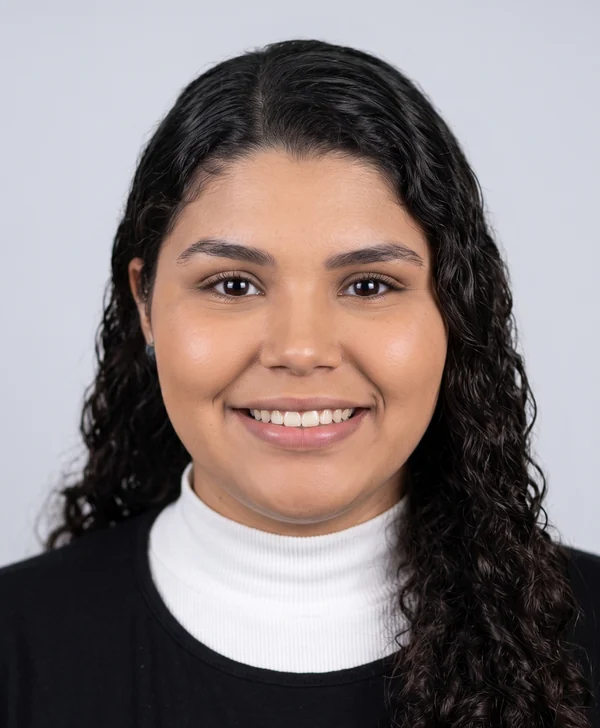
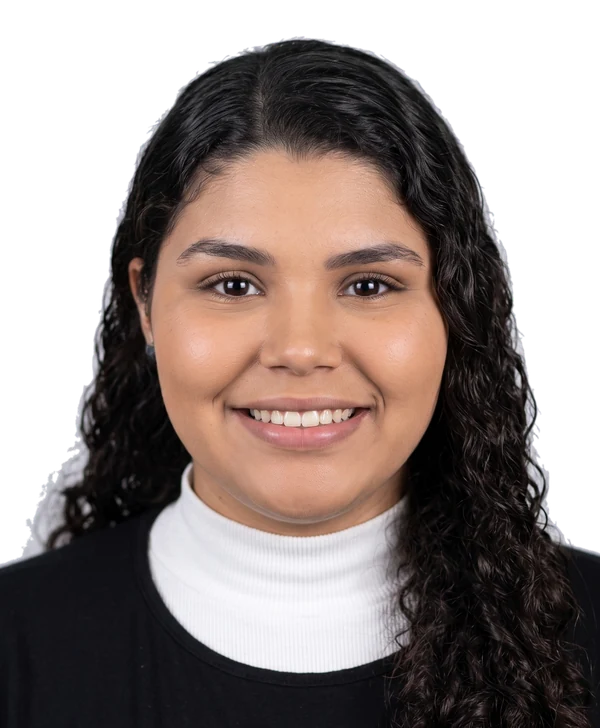
fix(rh): central de contato sobe para a linha do nome, no PC e no celular
Correção da minha correção anterior. Eu tinha compactado a central só abaixo de
sm — mas o painel é usado no PC, e era lá que ela ocupava uma faixa inteira com
metade dela vazia.

Pior: na primeira tentativa movi o bloco para a linha errada (a do "Baixar
currículo"), então ele continuou embaixo do nome. Agora ele é filho da linha do
avatar + nome de verdade, e fica à direita a partir de xl. Abaixo disso desce,
que é o certo num telefone.

E a moldura saiu no PC também: enquanto teve cartão, título e um parágrafo de
duas linhas, gastava 77px antes do primeiro botão. O título e a explicação
continuam no HTML para leitor de tela — para quem enxerga, "WhatsApp", "E-mail"
e "Ligar" já dizem o que fazem, e o texto só se lia uma vez na vida.

Medido, com a gaveta aberta na mesma ficha:

  1600px  cabeçalho 339px -> 217px, nome e WhatsApp no mesmo topo (16px)
  2560px  idem
   584px  empilhado, como deve ser num telefone
  nenhuma das três com overflow horizontal

Saíram junto o import `Send` e a constante `ROTULO_SECAO`, que ficaram órfãos.

diff --git a/src/routeTree.gen.ts b/src/routeTree.gen.ts
@@ -10,7 +10,6 @@
 
 import { Route as rootRouteImport } from './routes/__root'
 import { Route as IndexRouteImport } from './routes/index'
-import { Route as PreviaEquipeRouteImport } from './routes/previa-equipe'
 import { Route as RhRouteImport } from './routes/rh'
 import { Route as TrabalheConoscoRouteImport } from './routes/trabalhe-conosco'
 import { Route as CarreirasIndexRouteImport } from './routes/carreiras/index'
@@ -22,11 +21,6 @@ import { Route as ApiRhCurriculoIdRouteImport } from './routes/api/rh/curriculo/
 const IndexRoute = IndexRouteImport.update({
   id: '/',
   path: '/',
-  getParentRoute: () => rootRouteImport,
-} as any)
-const PreviaEquipeRoute = PreviaEquipeRouteImport.update({
-  id: '/previa-equipe',
-  path: '/previa-equipe',
   getParentRoute: () => rootRouteImport,
 } as any)
 const RhRoute = RhRouteImport.update({
@@ -67,7 +61,6 @@ const ApiRhCurriculoIdRoute = ApiRhCurriculoIdRouteImport.update({
 
 export interface FileRoutesByFullPath {
   '/': typeof IndexRoute
-  '/previa-equipe': typeof PreviaEquipeRoute
   '/rh': typeof RhRoute
   '/trabalhe-conosco': typeof TrabalheConoscoRoute
   '/carreiras/$slug': typeof CarreirasSlugRoute
@@ -78,7 +71,6 @@ export interface FileRoutesByFullPath {
 }
 export interface FileRoutesByTo {
   '/': typeof IndexRoute
-  '/previa-equipe': typeof PreviaEquipeRoute
   '/rh': typeof RhRoute
   '/trabalhe-conosco': typeof TrabalheConoscoRoute
   '/carreiras/$slug': typeof CarreirasSlugRoute
@@ -90,7 +82,6 @@ export interface FileRoutesByTo {
 export interface FileRoutesById {
   __root__: typeof rootRouteImport
   '/': typeof IndexRoute
-  '/previa-equipe': typeof PreviaEquipeRoute
   '/rh': typeof RhRoute
   '/trabalhe-conosco': typeof TrabalheConoscoRoute
   '/carreiras/$slug': typeof CarreirasSlugRoute
@@ -103,7 +94,6 @@ export interface FileRouteTypes {
   fileRoutesByFullPath: FileRoutesByFullPath
   fullPaths:
     | '/'
-    | '/previa-equipe'
     | '/rh'
     | '/trabalhe-conosco'
     | '/carreiras/$slug'
@@ -114,7 +104,6 @@ export interface FileRouteTypes {
   fileRoutesByTo: FileRoutesByTo
   to:
     | '/'
-    | '/previa-equipe'
     | '/rh'
     | '/trabalhe-conosco'
     | '/carreiras/$slug'
@@ -125,7 +114,6 @@ export interface FileRouteTypes {
   id:
     | '__root__'
     | '/'
-    | '/previa-equipe'
     | '/rh'
     | '/trabalhe-conosco'
     | '/carreiras/$slug'
@@ -137,7 +125,6 @@ export interface FileRouteTypes {
 }
 export interface RootRouteChildren {
   IndexRoute: typeof IndexRoute
-  PreviaEquipeRoute: typeof PreviaEquipeRoute
   RhRoute: typeof RhRoute
   TrabalheConoscoRoute: typeof TrabalheConoscoRoute
   CarreirasSlugRoute: typeof CarreirasSlugRoute
@@ -154,13 +141,6 @@ declare module '@tanstack/react-router' {
       path: '/'
       fullPath: '/'
       preLoaderRoute: typeof IndexRouteImport
-      parentRoute: typeof rootRouteImport
-    }
-    '/previa-equipe': {
-      id: '/previa-equipe'
-      path: '/previa-equipe'
-      fullPath: '/previa-equipe'
-      preLoaderRoute: typeof PreviaEquipeRouteImport
       parentRoute: typeof rootRouteImport
     }
     '/rh': {
@@ -217,7 +197,6 @@ declare module '@tanstack/react-router' {
 
 const rootRouteChildren: RootRouteChildren = {
   IndexRoute: IndexRoute,
-  PreviaEquipeRoute: PreviaEquipeRoute,
   RhRoute: RhRoute,
   TrabalheConoscoRoute: TrabalheConoscoRoute,
   CarreirasSlugRoute: CarreirasSlugRoute,

diff --git a/src/components/rh/CentralContato.tsx b/src/components/rh/CentralContato.tsx
@@ -42,7 +42,6 @@ import {
   Paperclip,
   PenLine,
   Phone,
-  Send,
   X,
 } from "lucide-react";
 import type { LucideIcon } from "lucide-react";
@@ -79,9 +78,6 @@ const BOTAO_PRIMARIO = `${BOTAO} bg-forest text-white ring-lime hover:bg-forest/
 const BOTAO_SECUNDARIO = `${BOTAO} bg-white/10 text-white ring-white/25 hover:bg-white/20`;
 /** Indisponível: continua legível (85% é o piso da regra), mas sem convite ao clique. */
 const BOTAO_MORTO = `${BOTAO} cursor-not-allowed bg-white/5 text-white/85 ring-white/15`;
-
-const ROTULO_SECAO =
-  "flex items-center gap-2 font-display text-[0.72rem] font-extrabold uppercase tracking-[0.14em] text-white";
 
 const AJUDA = "text-xs leading-relaxed text-white/85";
 
@@ -375,26 +371,26 @@ export function CentralContato(props: {
   /* --------------------------------------------------------------------- */
 
   return (
-    /* COMPACTA POR PADRÃO. Ela fica logo abaixo do nome, e antes ocupava um
-       cartão inteiro — título, um parágrafo de duas linhas e só então os
-       botões. Numa tela pequena isso empurrava a ficha inteira para fora da
-       dobra: a pessoa abria a candidata e via um bloco de instruções, não os
-       dados dela.
-       O título e a explicação continuam existindo para leitor de tela e voltam
-       à vista a partir de sm; o que some no celular é a moldura e o texto que
-       quem usa o painel já leu na primeira vez. */
-    <section aria-labelledby={`${uid}-titulo`} className="rounded-2xl sm:rh-vidro sm:p-5">
-      <h3 id={`${uid}-titulo`} className={`sr-only sm:not-sr-only sm:flex ${ROTULO_SECAO}`}>
-        <Send className="hidden h-4 w-4 shrink-0 text-lime sm:block" aria-hidden="true" />
+    /* SEM MOLDURA E SEM TEXTO — no PC também, não só no celular.
+       Ela mora ao lado do nome, no cabeçalho da gaveta. Enquanto teve cartão,
+       título e um parágrafo de duas linhas, gastava 77px antes do primeiro
+       botão e empurrava a ficha para fora da dobra: abria-se a candidata e
+       via-se um bloco de instruções, não os dados dela.
+
+       O título e a explicação continuam no HTML para quem usa leitor de tela.
+       Para quem enxerga, "WhatsApp", "E-mail" e "Ligar" já dizem o que fazem —
+       e o texto só se lia uma vez na vida. */
+    <section aria-labelledby={`${uid}-titulo`}>
+      <h3 id={`${uid}-titulo`} className="sr-only">
         Central de contato
       </h3>
-      <p className={`hidden sm:block sm:mt-2 ${AJUDA}`}>
+      <p className="sr-only">
         Fale com {item.nome.trim() === "" ? "a candidata" : item.nome.trim()} sem sair daqui. O que
         você enviar entra sozinho no histórico dela.
       </p>
 
       {/* ---------- Ações diretas ---------- */}
-      <div className="flex flex-wrap gap-2 sm:mt-3">
+      <div className="flex flex-wrap gap-2">
         <Acao
           icone={MessageCircle}
           rotulo="WhatsApp"

diff --git a/src/components/rh/GavetaCandidatura.tsx b/src/components/rh/GavetaCandidatura.tsx
@@ -891,6 +891,20 @@ function ConteudoGaveta(props: PropsConteudo) {
             >
               <X className="h-5 w-5" aria-hidden="true" />
             </button>
+            {/* ---------- Central de contato ----------
+              No topo grudento porque falar com a candidata é a razão de a
+              gaveta estar aberta: com ela lá embaixo, o RH rolava a ficha
+              inteira até o fim toda vez que precisava mandar um WhatsApp.
+              O `aoRegistrar` cai na MESMA anotação que o RH escreve à mão —
+              não existe um segundo histórico paralelo. */}
+            <div className="mt-2 w-full xl:mt-0 xl:w-auto xl:shrink-0 xl:max-w-[46%]">
+              <CentralContato
+                item={item}
+                agora={agora}
+                remetente={remetente}
+                aoRegistrar={(texto) => aoAnotar(item.id, texto)}
+              />
+            </div>
           </div>
 
           {/* ---------- Baixar currículo ----------
@@ -923,20 +937,6 @@ function ConteudoGaveta(props: PropsConteudo) {
                 Sem currículo<span className="hidden sm:inline">&nbsp;anexado</span>
               </span>
             )}
-            {/* ---------- Central de contato ----------
-              No topo grudento porque falar com a candidata é a razão de a
-              gaveta estar aberta: com ela lá embaixo, o RH rolava a ficha
-              inteira até o fim toda vez que precisava mandar um WhatsApp.
-              O `aoRegistrar` cai na MESMA anotação que o RH escreve à mão —
-              não existe um segundo histórico paralelo. */}
-            <div className="mt-3 xl:mt-0 xl:w-auto xl:shrink-0">
-              <CentralContato
-                item={item}
-                agora={agora}
-                remetente={remetente}
-                aoRegistrar={(texto) => aoAnotar(item.id, texto)}
-              />
-            </div>
           </div>
         </header>
 

diff --git a/src/components/site/TeamSection.tsx b/src/components/site/TeamSection.tsx
@@ -15,8 +15,8 @@ function CardProfissional({
   foto?: string | undefined;
 }) {
   return (
-    <article className="group w-full overflow-hidden rounded-[22px] border border-border-soft bg-white/55 px-5 pb-7 pt-6 shadow-[0_14px_42px_rgba(3,47,1,.055)] backdrop-blur-sm transition-all duration-500 hover:-translate-y-2 hover:border-brand-green/55 hover:shadow-[0_22px_55px_rgba(3,47,1,.10)] sm:w-[calc(50%-10px)] md:w-[calc(33.333%-14px)] lg:w-[calc(20%-16px)]">
-      <div className="relative mx-auto aspect-[0.83/1] w-full overflow-hidden rounded-t-[90px] bg-[#EBF5E1]">
+    <article className="group flex w-full flex-col overflow-hidden rounded-[22px] border border-border-soft bg-white/55 px-5 pb-7 pt-6 shadow-[0_14px_42px_rgba(3,47,1,.055)] backdrop-blur-sm transition-all duration-500 hover:-translate-y-2 hover:border-brand-green/55 hover:shadow-[0_22px_55px_rgba(3,47,1,.10)] sm:w-[calc(50%-10px)] md:w-[calc(33.333%-14px)] lg:w-[calc(20%-16px)]">
+      <div className="relative mx-auto aspect-[0.83/1] w-full shrink-0 overflow-hidden rounded-t-[90px] bg-[#EBF5E1]">
         {foto ? (
           /* width/height são obrigatórios: a foto é lazy e, sem a proporção
              intrínseca, o card colapsaria até o download terminar. */
@@ -42,7 +42,7 @@ function CardProfissional({
         />
       </div>
 
-      <div className="pt-5 text-center">
+      <div className="flex flex-1 flex-col justify-center pt-5 text-center">
         <h3 className="font-display text-[18px] font-extrabold leading-tight tracking-[-0.025em] text-forest-2">
           {nome}
         </h3>

diff --git a/src/routes/index.tsx b/src/routes/index.tsx
@@ -64,7 +64,6 @@ import { SpecialtiesSection } from "@/components/site/SpecialtiesSection";
 import { ReviewsSection } from "@/components/site/ReviewsSection";
 import { HistorySection } from "@/components/site/HistorySection";
 import { FaqSection } from "@/components/site/FaqSection";
-import { TeamSection } from "@/components/site/TeamSection"; // PREVIEW TEMPORARIO
 import { CLINICA, DEPOIMENTOS, FAQ, HISTORIA, TRATAMENTOS, whatsappLink } from "@/lib/jp";
 
 const TITLE = "JP Clínica Integrada Odontológica — Dentista na Freguesia do Ó, São Paulo";
@@ -688,9 +687,6 @@ function Home() {
             clínica não sustenta. O componente e os dados continuam no
             repositório: para voltar, é reinserir <TeamSection /> aqui e o item
             "Equipe" em NAV. */}
-
-        <TeamSection />
-        {/* PREVIEW TEMPORARIO */}
 
         {/* 07 — ESTRUTURA */}
         <section id="estrutura" className="jp-section relative overflow-hidden bg-paper ">
